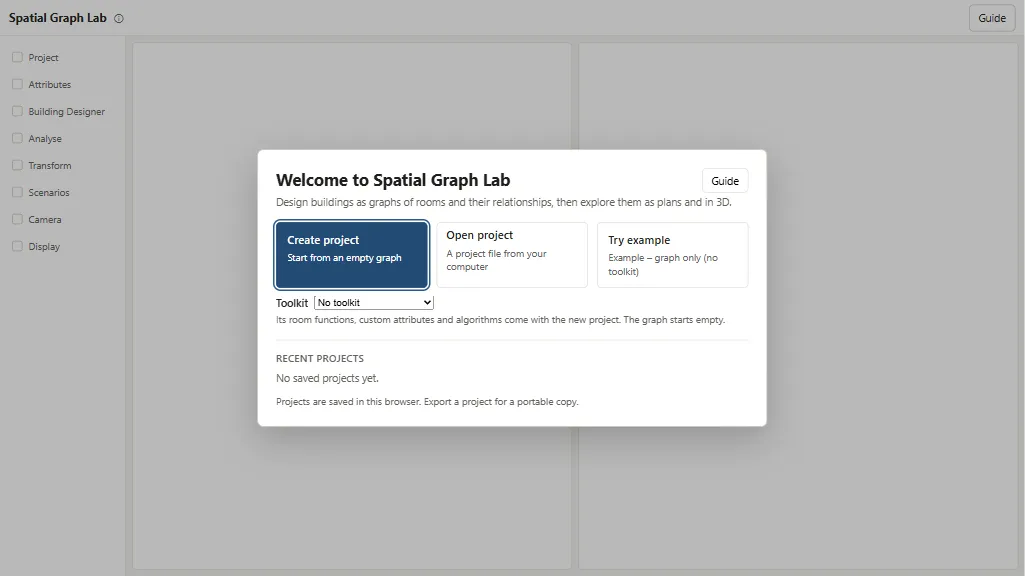
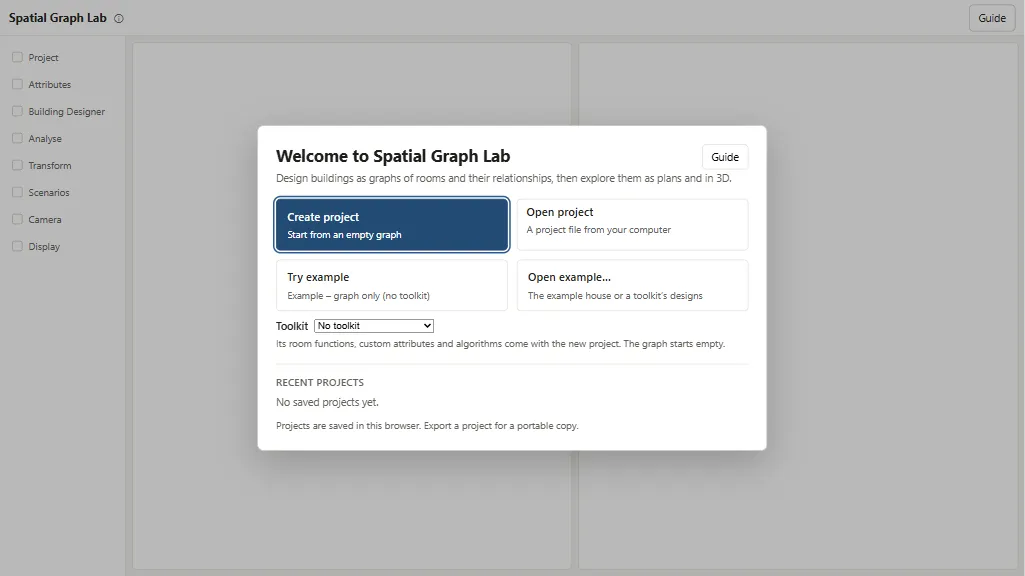
docs(guide): open an example, corridor width, new project toolkit choice
New How-to "Open an example"; Start mentions Open example… and the
toolkit choice beside Create project; Building Designer mentions the
corridor Width; Project mentions New project's toolkit choice and Open
example…. Screenshots howto-start, howto-open-example and panel-project
recaptured with guide-shots.mjs. DECISIONS: "Open example and toolkit
façade assets" (20 November 2026).

Changed region(s): [[0.2498, 0.2188, 0.7493, 0.7812]]

diff --git a/app/ui/guide/content.ts b/app/ui/guide/content.ts
@@ -204,7 +204,7 @@ const TEXT: readonly GuideTabContent[] = [
         id: 'panel-designer',
         title: 'Building Designer',
         summary: 'How the building looks: rooms are styled by one attribute, and each group gets a look card (façade, windows, roof).',
-        example: '(1) Style rooms by Function, (2) the Default card for every room without its own card, (3) the Corridors (generated) card: Walls Enclosed or Open, Roof Flat, Pergola or None (default Open + Flat), (4) + Style another function to give, say, the Kitchen its own look.',
+        example: '(1) Style rooms by Function, (2) the Default card for every room without its own card, (3) the Corridors (generated) card: Walls Enclosed or Open, Roof Flat, Pergola or None, and Width in metres, centred in the corridor’s cells (default Open + Flat, 1.5 m), (4) + Style another function to give, say, the Kitchen its own look.',
         diagram: 'panel-designer',
         learnMore: LINKS.envelope,
       },
@@ -252,7 +252,7 @@ const TEXT: readonly GuideTabContent[] = [
         id: 'panel-project',
         title: 'Project',
         summary: 'Save, export and open projects; a project holds all its scenarios, attributes and looks.',
-        example: '(1) Save locally keeps it in this browser, (2) Export project downloads one file to keep or hand in, (3) Open project reads such a file (or a single design JSON) back.',
+        example: '(1) Save locally keeps it in this browser, (2) Export project downloads one file to keep or hand in, (3) Open project reads such a file (or a single design JSON) back, (4) New project asks which toolkit to start from (No toolkit unless you choose one, e.g. House), (5) Open example… opens the example house or a toolkit design as a new project.',
         diagram: 'panel-project',
         learnMore: LINKS.jsonOrg,
       },
@@ -265,7 +265,7 @@ const TEXT: readonly GuideTabContent[] = [
         id: 'what-is-a-toolkit',
         title: 'What is a toolkit?',
         summary: 'A toolkit is a folder that gives the app a vocabulary: Functions, the custom attributes they use, algorithms that read them and example designs.',
-        example: 'toolkits/house/ has six Functions in functions/ (each made with defineFunction), the custom attributes targetArea and priority, the transform Grow to target area in algorithms/ and the example house in designs/. Without a toolkit, the built-in example is the same house as a plain graph.',
+        example: 'toolkits/house/ has six Functions in functions/ (each made with defineFunction), the custom attributes targetArea and priority, the transform Grow to target area in algorithms/, the example house and a finished House showcase in designs/, and the façade file the showcase uses in assets/. Without a toolkit, the built-in example is the same house as a plain graph.',
         diagram: 'toolkit',
         learnMore: LINKS.typescript,
       },
@@ -318,9 +318,17 @@ const TEXT: readonly GuideTabContent[] = [
         id: 'howto-start',
         title: 'Start: the example, a new project or a file',
         summary: 'The Welcome screen opens the example house, creates an empty project, or opens a file.',
-        example: '1. Try example opens the house (no toolkit). 2. Create project starts an empty graph; with a toolkit (e.g. House) its custom attributes are ready. 3. Open project reads a project or design file. 4. Recent projects are listed below.',
+        example: '1. Try example opens the house (no toolkit). 2. Create project starts an empty graph; with a toolkit chosen beside it (e.g. House) its custom attributes are ready. 3. Open project reads a project or design file. 4. Open example… lists the example house and every toolkit design. 5. Recent projects are listed below.',
         diagram: 'howto-start',
         learnMore: LINKS.jsonOrg,
+      },
+      {
+        id: 'howto-open-example',
+        title: 'Open an example',
+        summary: 'Open example… opens the example house or a toolkit’s design as a new project, ready to explore; the project you had open is not changed.',
+        example: '1. Open example… on Welcome or in Project. 2. Pick one: House – graph only (No toolkit), or a design tagged Toolkit: House, e.g. House showcase. 3. It opens with its toolkit and custom attributes, its looks by Function, its corridors and any imported façade (the showcase’s Bedrooms use one). 4. Set a view to Building to see it.',
+        diagram: 'howto-open-example',
+        learnMore: LINKS.envelope,
       },
       {
         id: 'howto-select-inspect',

diff --git a/app/ui/guide/diagrams.tsx b/app/ui/guide/diagrams.tsx
@@ -951,7 +951,8 @@ const D: Record<string, () => ReactNode> = {
   'ask-ai': () => <Steps alt="Four steps: download the AI kit, describe the measure to an AI assistant, upload the .ts file in Analyse, it appears tagged Yours." labels={['Download the AI kit', 'Describe the measure to the AI', 'Upload your own (.ts)', 'It appears, tagged Yours']} />,
 
   // How to…
-  'howto-start': () => <Steps alt="Welcome: 1 Try example, 2 Create project (with or without a toolkit), 3 Open project from a file, 4 Recent projects." labels={['Try example', 'Create project', 'Open project…', 'Recent projects']} />,
+  'howto-start': () => <Steps alt="Welcome: 1 Try example, 2 Create project (with or without a toolkit), 3 Open project from a file, 4 Open example…, 5 Recent projects." labels={['Try example', 'Create project', 'Open project…', 'Open example…', 'Recent projects']} />,
+  'howto-open-example': () => <Steps alt="1 Open example… on Welcome or in Project, 2 pick the example house or a toolkit design, 3 it opens as a new project with its toolkit, looks and façades, 4 see it in the Building view." labels={['Open example…', 'Pick an example', 'A new project', 'View: Building']} />,
   'howto-select': () => <Steps alt="1 Click a node in Graph 2D, 2 it is highlighted in every view, 3 read and edit it in Properties." labels={['Click a node or edge', 'Highlighted in every view', 'Read and edit in Properties']} />,
   'howto-add-room': () => <Steps alt="1 + Add node, 2 choose its Function in Properties, 3 set Position and Size." labels={['+ Add node', 'Function', 'Position and Size']} />,
   'howto-connect': () => <Steps alt="1 Select the first room, 2 Add connection…, 3 click the second room, 4 choose Access or Open in Properties." labels={['Select the first room', 'Add connection…', 'Click the second room', 'Access or Open']} />,

diff --git a/app/ui/guide/screenshots.ts b/app/ui/guide/screenshots.ts
@@ -18,7 +18,8 @@ export const CAPTURED_SHOTS: Readonly<Record<string, CapturedShot>> = captured a
 
 /** Alt text per entry id (what the screenshot shows and what each marker points at). */
 export const SHOT_ALT: Readonly<Record<string, string>> = {
-  'howto-start': 'The Welcome screen: 1 Try example, 2 Create project, 3 Open project, 4 Recent projects.',
+  'howto-start': 'The Welcome screen: 1 Try example, 2 Create project, 3 Open project, 4 Open example…, 5 Recent projects.',
+  'howto-open-example': 'Open example… over the Welcome screen: 1 the Open example dialog, listing the example house (No toolkit) and the House designs, 2 House showcase, a design tagged Toolkit: House.',
   'howto-select-inspect': 'The app with the Living room selected: 1 the node in Graph 2D, 2 the same room highlighted in the Building view, 3 its attributes in Properties.',
   'howto-add-room': 'A new room 6 added: 1 the + Add node button, 2 its Function in Properties, 3 its Position and Size.',
   'howto-connect': 'A new relationship Entrance–Bath: 1 the Entrance node, 2 the Add connection… button, 3 the Bath node, 4 Access or Open in Properties.',
@@ -37,7 +38,7 @@ export const SHOT_ALT: Readonly<Record<string, string>> = {
   'panel-scenarios': 'The Scenarios panel: 1 Scenario 1, 2 a second scenario, 3 + New scenario.',
   'panel-camera': 'The Camera panel: 1 Target viewport, 2 Save current view, 3 Saved cameras.',
   'panel-display': 'The Display panel: 1 the view buttons, 2 Labels, Legend and Roofs, 3 Colours.',
-  'panel-project': 'The Project panel: 1 Save locally, 2 Export project, 3 Open project.',
+  'panel-project': 'The Project panel: 1 Save locally, 2 Export project, 3 Open project, 4 New project, 5 Open example….',
 };
 
 /** The explainer with its captured screenshot attached (unchanged when none was captured). */

diff --git a/docs/DECISIONS.md b/docs/DECISIONS.md
@@ -235,3 +235,11 @@ Completes "One vocabulary". Not distributed: no migration; the old names are sim
 ## New project from the Project panel asks for a toolkit (19 November 2026, owner decision)
 - **Owner:** Project → New project no longer creates a House project silently when House is the only toolkit. Whenever a toolkit exists it shows Welcome's toolkit choice (the same `ToolkitPicker`) in the New project dialog (`NewProjectDialog`), preselected like Welcome: **No toolkit** (or the `?toolkit=` / `VITE_SGL_TOOLKIT` default, `toolkits.defaultId`; no longer the open project's toolkit). Without any toolkit, New project creates a project with no toolkit at once (`newProjectStart`).
 - Create project takes Welcome's path (`createProject`): with a toolkit, the new project starts with that toolkit's custom attributes and an empty graph.
+
+## Open example and toolkit façade assets (20 November 2026, owner decision)
+- **Open example…** is a button on Welcome (a fourth action beside Create project, Open project and Try example; the actions now sit two by two) and in Project (after New project / Open project). Its dialog lists the built-in House (graph only, tagged "No toolkit") and every design of every toolkit (`toolkits/<id>/designs/*.json`), each with the design's `metadata.name` and `description` and the tag "Toolkit: <name>"; a design that cannot be read is listed, disabled, with its problem. The list is loaded when the dialog opens (`listToolkitExamples`, `app/extensions/toolkitExamples.ts`: each `toolkit.ts` for its name, each design's text; no toolkit is activated). Try example is kept as the one-click way to the built-in House.
+- **Choosing one always creates a NEW project** (`openToolkitExample`, `app/welcome/welcomeFlow.ts`; the built-in House takes Try example's path). With a toolkit design: that toolkit is the project's toolkit, its custom attributes are seeded exactly as by Create project with that toolkit, the design is the one scenario with its Building Designer settings (looks, the Corridors card, relationship corridors), the façades it uses are project assets, and the default calculated attributes are shown (as Try example). The design is validated by toolkit activation and the whole project file is read back (`exampleProjectFile`) before anything is opened; a failure opens nothing and leaves the open project as it is. Leaving an unsaved project asks first, as for every other open.
+- **Toolkit façade assets:** a toolkit may ship `.3dm` façade files in `toolkits/<id>/assets/`. A design names one exactly as a project does, by the asset id the app's own import gives it (`facade-<16 hex>` = the first 16 hex digits of the SHA-256 of the normalised mesh); the schema is unchanged. `TOOLKIT_GLOBS.assets` globs them with `?url`, lazily: the build emits each file as a separate static file (a ~60-byte URL chunk per file) and no JavaScript bundle contains it. When an opened example uses an asset id, the shell fetches the toolkit's files in order and imports each through the normal façade import (`@app/assets/rhino/browser`, the same lazy rhino3dm chunk as Import .3dm…, Outside −Y) until every id is found (`loadToolkitAssets`); an id that no file gives, a file over the 20 MB import limit, a unitless file or a refused import fails with a message naming the file and ids. Materials are the file's own colours (change them in the project with Materials…); a toolkit cannot ship material overrides.
+- **Check:** `npm run check:toolkit` imports the asset files in Node with the pinned rhino3dm, exactly as the app does, and fails when a design uses an asset id no file in `assets/` gives (the message lists the id each file gives). Because ids are content hashes of the normalised mesh, a change to the import pipeline or the rhino3dm version that changes the mesh changes the id; this check then fails and the design must be updated.
+- **House:** `toolkits/house/assets/facade-ex1.3dm` (the owner's file, 12,510,432 bytes, under the 20 MB `.3dm` limit; it imports in metres as a 3 × 3 × 0.90 m bay of 556 triangles, a 10.5 KB embedded mesh, id `facade-ea64a8beca91ce66`; 5 curves are left out with a warning). New design `designs/showcase.json` ("House showcase"): eleven rooms on two storeys, Looks by Function with a different window coverage and layout per function (Living 70 % Stretch, Kitchen 40 % Repeat, Bath 15 % Repeat), the imported façade on every Bedroom, Entrance open + pergola (porch), Circulation open + no roof (roof terrace, garden deck), other roofs flat; three generated corridors with the Corridors card open + flat + 1.8 m and an override on each relationship (pergola 1.2 m, enclosed 2.1 m, no roof 2.4 m). `designs/house.json` (the 1-cell start for Grow to target area) and `app/document/examples/house.json` are unchanged.
+- **Guide:** new How-to "Open an example"; Start mentions Open example… and the toolkit choice beside Create project; Panels → Building Designer mentions the corridor Width; Panels → Project mentions New project's toolkit choice and Open example…. Screenshots `howto-start`, `howto-open-example` and `panel-project` recaptured.
